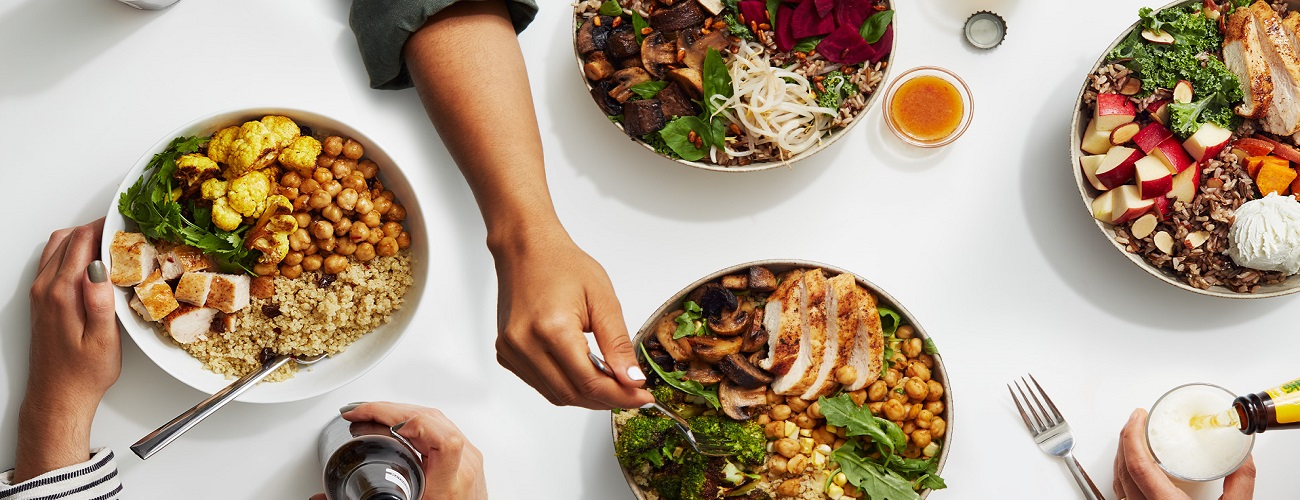
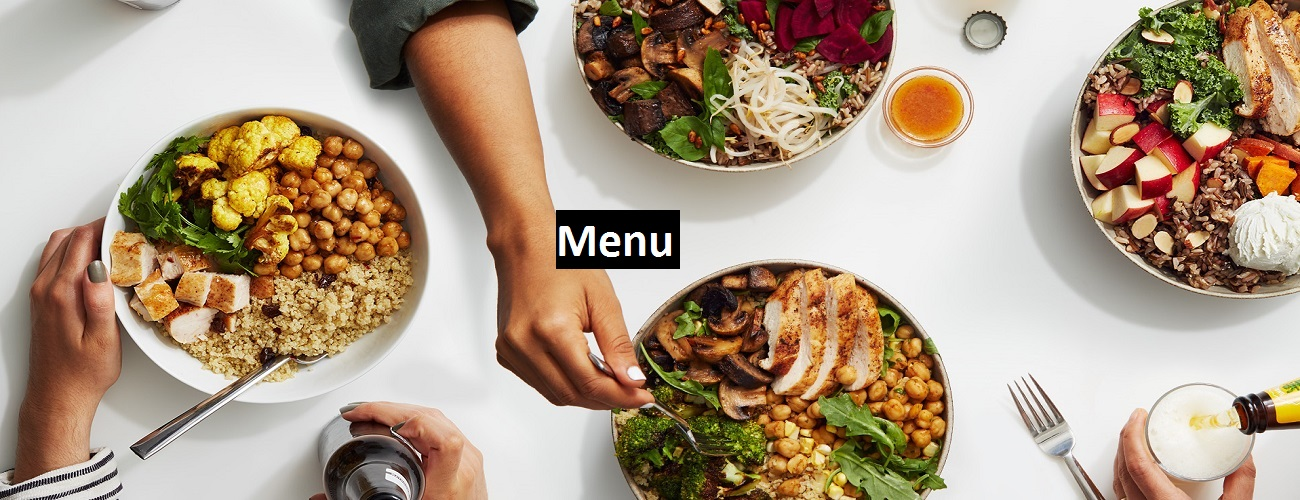
upgrading to responsive website

Changed region(s): [[0.4308, 0.42, 0.5231, 0.54]]

diff --git a/our_story.php b/our_story.php
@@ -7,47 +7,8 @@
     <?php
     include "header.php";
     ?>
-    <style>
-        #padded-multiline {
-            background: url("pictures/picture2.jpg");
-
-            padding: 100px 80px 50px 50px;
-            width: 1320px;
-            height: 540px;
-            margin: 20px auto;
-            background-size: cover;
-            color: ghostwhite;
-        }
-        #padded-multiline span {
-            font-size: small;
-            color: white;
-            display: inline;
-            padding: 0.5rem;
-            -webkit-box-decoration-break: clone;
-            box-decoration-break: clone;
-        }
-        #heading{
-            font-size: 55px;
-            font-family: "Bookman Old Style";
-        }
-    </style>
 </head>
 <body>
-  <div id="padded-multiline">
-      <div class="form-group col-md-3"></div>
-      <div class="form-group col-md-6">
-        <center>
-          <p id="heading">our story</p><br>
-          <span>
-          Founded in 2015, eatFresh is a destination for delicious food that’s both healthy for you and aligned with your values.
-          Overwhelmed by the response given by the local communities, we are continuously striving to improve and deliver the best
-          to our customers. We know the recipes that can satisfy your craving keeping a hold of your health. Our fresh produce
-          from local farms and barns help our food to retain all the nutrients and serving it intact in your plates. Our team of
-          experienced cooks from across the globes give their own touch to the traditional food giving your food a taste you have
-          never thought of. Currently located in Windsor, London, Cambridge and Brampton, we have plans to grow in near future.
-          </span>
-        </center>
-      </div>
-  </div>
+<img src="pictures/picture2.jpg" class="img-responsive" style="padding: 20px 50px 50px 50px; height: 560px;width: 100%">
 </body>
 </html>

diff --git a/index.php b/index.php
@@ -8,37 +8,12 @@
     session_start();
     ?>
     <style>
-        #padded-multiline {
-            background: url("pictures/menu1.jpg");
-            line-height: 7.0;
-            padding: 120px 80px 50px 50px;
-            width: 1200px;
-            height: 500px;
-            margin: 20px auto;
-        }
-        #padded-multiline span {
-            background-color: black;
-            color: #fff;
-            display: inline;
-            padding: 0.5rem;
-            -webkit-box-decoration-break: clone;
-            box-decoration-break: clone;
-        }
         #heading{
             font-family: Cambria;
         }
         #text{
             font-family: "Bookman Old Style";
             font-size: small;
-        }
-        #image
-        {
-            background: url("pictures/menu2.jpg");
-            line-height: 7.0;
-            padding: 120px 80px 50px 50px;
-            width: 1200px;
-            height: 500px;
-            margin: 20px auto;
         }
     </style>
 </head>
@@ -54,9 +29,7 @@
       <?php
   }
   ?>
-  <h1 id="padded-multiline">
-      <center><span>Menu</span></center>
-  </h1>
+<img src="pictures/menu1.jpg" class="img-responsive" style="padding: 20px 50px 50px 50px;">
   <?php
   //fetching menu data from the db
   $query1="select * from menu order by food_item asc";
@@ -94,7 +67,7 @@
         if($count == 6)
         {
             ?>
-            <div id="image"></div>
+            <img src="pictures/menu2.jpg" class="img-responsive" style="padding: 20px 50px 50px 50px;">
             <div class="row"></div>
             <div class="form-group col-md-2"></div>
             <?php

diff --git a/order_confirmation.php b/order_confirmation.php
@@ -44,7 +44,8 @@ $row3=mysqli_fetch_array($result3);
         <h2>Thanks for your order <?php echo ucfirst($row1[2])." ".ucfirst($row1[3])."!" ?></h2>
         <h4>Order ID: <?php echo $row1[1] ?></h4>
         <h4>Items ordered:</h4>
-        <table class="table table-bordered">
+          <div class="table-responsive">
+          <table class="table table-bordered">
           <?php
           while($row2=mysqli_fetch_array($result2)){
           ?>
@@ -56,10 +57,11 @@ $row3=mysqli_fetch_array($result3);
               }
               ?>
               <tr>
-                  <td><strong>Total   </strong><span class="badge"><?php echo $row3[0];?></span></td>
+                  <td><strong>Total (in CAD)   </strong><span class="badge"><?php echo $row3[0];?></span></td>
               </tr>
               </tbody>
           </table>
+          </div>
         <h4>Phone: <?php echo $row1[8]?></h4>
         <h4>Address: <?php echo $row1[4].", ".ucfirst($row1[5])." ".strtoupper($row1[6]) ?></h4>
         <div class="alert alert-info">

diff --git a/order_checkout.php b/order_checkout.php
@@ -45,7 +45,8 @@ if(isset($_SESSION["cart_item"])){
               </div>
           </div>
           <div class="well">
-            <table class="table table-striped">
+              <div class="table-responsive">
+              <table class="table table-striped">
                 <thead></thead>
                 <tbody>
                     <tr>
@@ -80,6 +81,7 @@ if(isset($_SESSION["cart_item"])){
                     </tr>
                 </tbody>
             </table>
+              </div>
         </div>
       </div>
     </div>

diff --git a/admin_orders_view.php b/admin_orders_view.php
@@ -33,6 +33,7 @@ if(isset($_REQUEST['q'])) {
                     <center><h2>List of orders</h2></center>
                 </div>
             </div>
+            <div class="table-responsive">
             <table class="table table-striped" style="font-size: small">
                 <thead>
                     <tr>
@@ -99,6 +100,7 @@ if(isset($_REQUEST['q'])) {
                     ?>
                 </tbody>
             </table>
+            </div>
         </div>
     </div>
 </body>

diff --git a/admin_contact_inquiries.php b/admin_contact_inquiries.php
@@ -21,6 +21,7 @@ $result=mysqli_query($conn,$query);
                     <center><h2>List of inquiries</h2></center>
                 </div>
             </div>
+            <div class="table-responsive">
             <table class="table table-striped">
                 <thead>
                     <tr>
@@ -56,6 +57,7 @@ $result=mysqli_query($conn,$query);
                     ?>
                 </tbody>
             </table>
+            </div>
         </div>
     </div>
 </body>

diff --git a/header.php b/header.php
@@ -25,7 +25,7 @@ session_start();
               <a class="navbar-brand" href="index.php">eatFresh | Inspiring healthier habits</a>
           </div>
           <ul class="nav navbar-nav">
-              <li><a href="view_menu.php">Menu</a></li>
+              <li><a href="index.php">Menu</a></li>
               <li><a href="locations.php">Locations</a> </li>
               <li><a href="our_story.php">Our story</a> </li>
               <li><a href="contact_us.php">Contact</a></li>

diff --git a/admin_view_menu.php b/admin_view_menu.php
@@ -53,6 +53,7 @@ if(isset($_REQUEST['q'])) {
                     <center><h2>List of food items</h2></center>
                 </div>
             </div>
+            <div class="table-responsive">
             <table class="table table-striped">
                 <thead>
                     <tr>
@@ -88,6 +89,7 @@ if(isset($_REQUEST['q'])) {
                     ?>
                 </tbody>
             </table>
+            </div>
         </div>
     </div>
 </body>

diff --git a/order_online.php b/order_online.php
@@ -73,7 +73,8 @@ if(!empty($_GET["action"])) {
         </div>
       </div>
       <div class="well">
-        <table class="table table-striped">
+          <div class="table-responsive">
+          <table class="table table-striped">
           <thead>
               <tr>
                   <th>#</th>
@@ -112,6 +113,7 @@ if(!empty($_GET["action"])) {
             ?>
           </tbody>
         </table>
+          </div>
       </div>
     </div>
   </div>
